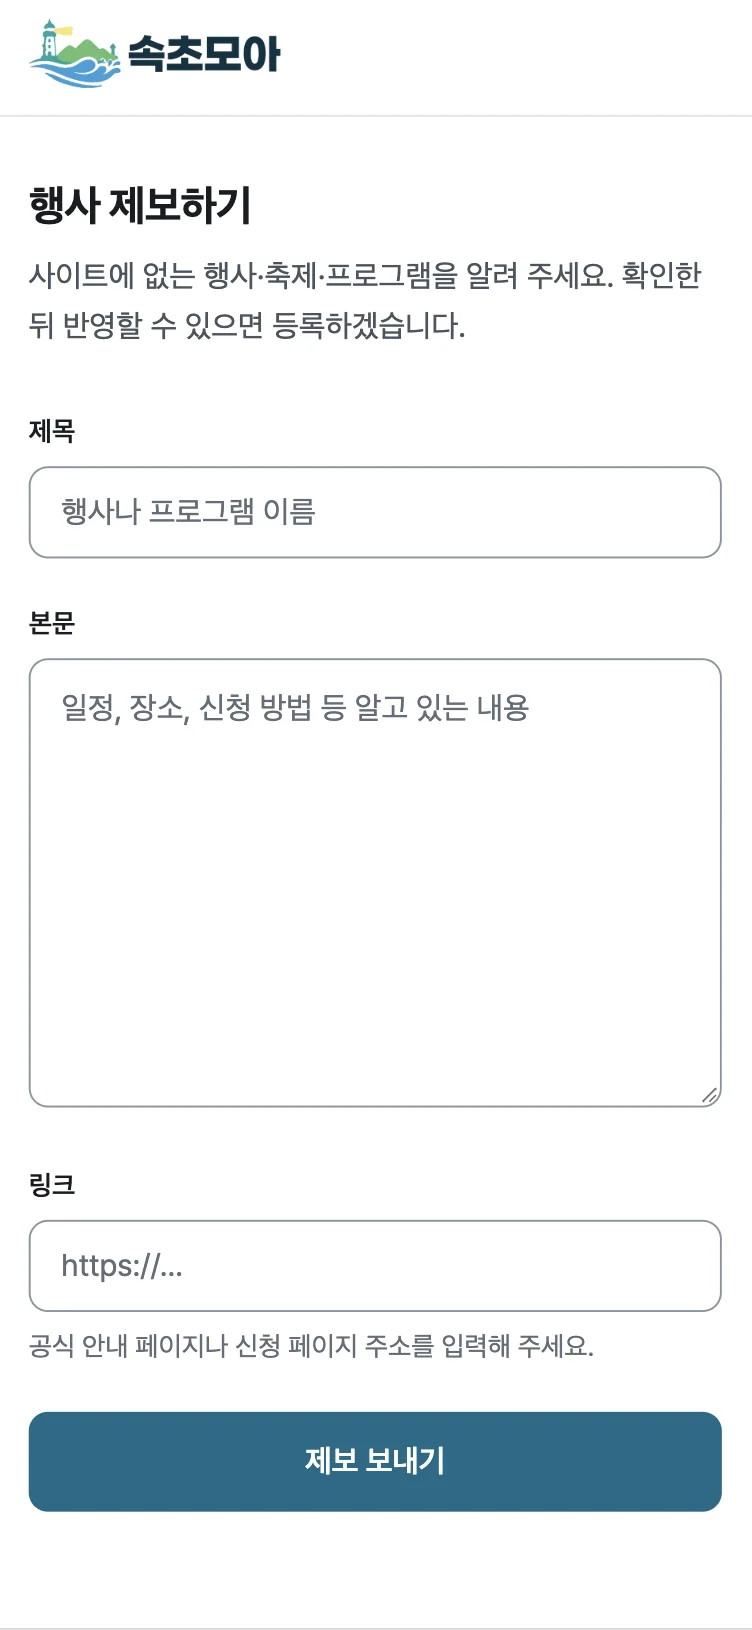
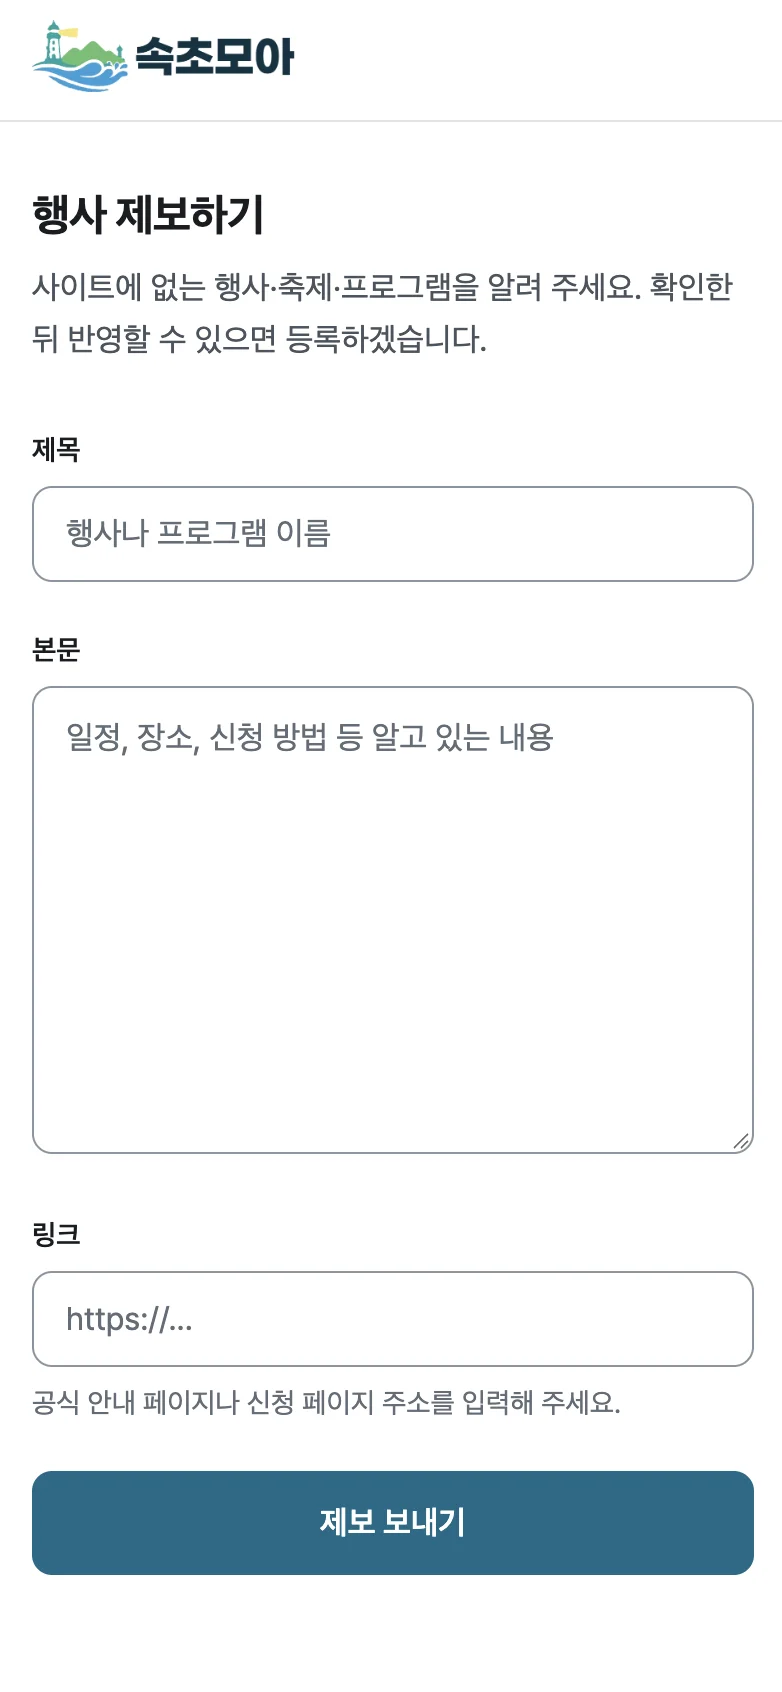
docs: README 화면 사진을 새 로고로 교체하고 분야 탭 위치 문서 수정
- README 화면 사진 4장(데스크톱 홈, 모바일 홈·상세·제보)을 새 로고 화면으로 교체
- 분야 탭이 전역 헤더(app/layout.tsx)로 옮겨진 것을 architecture.md와 app/AGENTS.md에 반영

diff --git a/docs/architecture.md b/docs/architecture.md
@@ -55,7 +55,7 @@ import합니다. 이 규칙은 `pnpm lint`가 강제합니다(`eslint.config.mjs
 | --- | --- | --- |
 | `/` | 동적(`searchParams`) | `features/events/components/event-browse-page` + `getAllPublicEvents` |
 | `/topics/[topic]` | 동적 | 위와 같음. 카테고리 SEO 페이지 6개. 없는 토픽은 `proxy.ts`가 404 |
-| (공통 틀) `app/(event-browse)/layout.tsx` | - | `/`와 `/topics/[topic]`이 함께 쓰는 분야 탭과 배너(많이 보는 행사). 탭을 바꿔도 다시 그리지 않음 |
+| (공통 틀) `app/(event-browse)/layout.tsx` | - | `/`와 `/topics/[topic]`이 함께 쓰는 배너(많이 보는 행사). 탭을 바꿔도 다시 그리지 않음. 분야 탭은 헤더와 함께 고정되도록 전역 `app/layout.tsx`에 있음 |
 | `/events/[slug]` | ISR 1시간, 공개 행사 전부 미리 생성 | 행사 상세, 관련 행사, 주변 명소(`features/places/queries`) |
 | `/calendar` | 동적 | 목록으로 redirect만(캘린더는 삭제, 옛 북마크 보호) |
 | `/report`, `/feedback` | 정적 | 방문자 제보·의견 폼 |

diff --git a/app/AGENTS.md b/app/AGENTS.md
@@ -9,7 +9,7 @@
 - 페이지에서 Supabase client를 직접 만들지 않고 `features/*/queries.ts`의 조회 함수를 부릅니다.
 - `params`·`searchParams`는 zod나 `features/*/model`의 parse 함수로 검증한 뒤 씁니다(예: `parseEventFilters`).
 - page props 타입은 Next.js 전역 helper `PageProps<"/route">`를 씁니다. 경로 문자열에서 `params` 타입이 만들어집니다.
-- 여러 페이지가 같은 윗부분(탭·배너)을 쓰면 route group의 공통 `layout.tsx`에 둡니다. 탭을 바꿀 때 페이지 전체가 다시 그려지지 않습니다(예: `app/(event-browse)/layout.tsx`).
+- 여러 페이지가 같은 윗부분(배너 등)을 쓰면 route group의 공통 `layout.tsx`에 둡니다. 탭을 바꿀 때 페이지 전체가 다시 그려지지 않습니다(예: `app/(event-browse)/layout.tsx`).
 - `export default`는 Next.js가 요구하는 파일(page, layout, loading, error, not-found, route 메타 파일)에만 씁니다. 같은 폴더의 보조 파일은 named export입니다.
 
 ## 관리자 페이지
